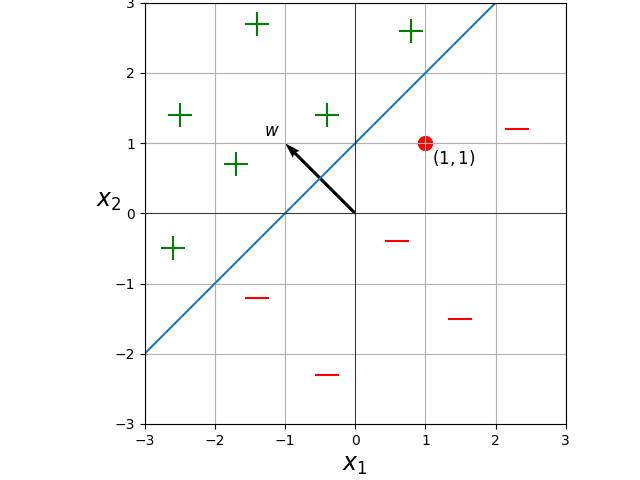
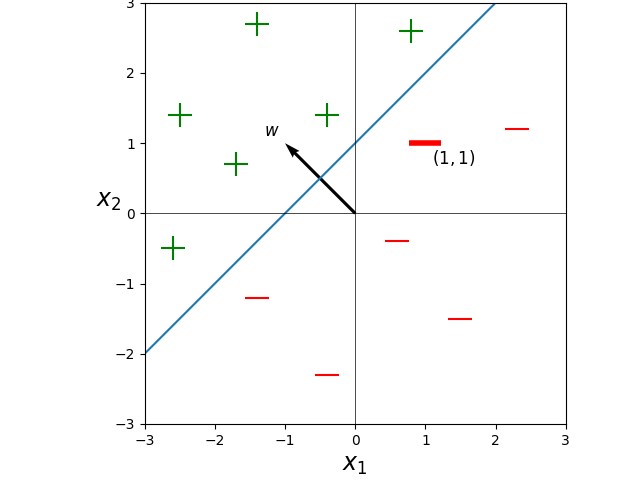
irudiak aldaketa

diff --git a/Grafikoak/1_espazio_zatitzaile_adibidea.py b/Grafikoak/1_espazio_zatitzaile_adibidea.py
@@ -14,7 +14,7 @@ plt.xlabel(r'$x_1$', fontsize = 17)
 plt.ylabel(r'$x_2$',rotation = 0, fontsize = 17)
 plt.tight_layout(pad = 0.2)
 
-plt.grid(True)
+# plt.grid(True)
 plt.xlim([-3,3])
 plt.ylim([-3,3])
 plt.axhline(0, color='black',linewidth=0.5)
@@ -24,7 +24,7 @@ plt.gca().set_aspect('equal', adjustable='box')
 # Puntuak gehitu
 plt.scatter([2.3, -0.4, -1.4,0.6,1.5], [1.2, -2.3,-1.2,-0.4,-1.5], color='red', marker='_', s = 300)
 plt.scatter([-1.7, -0.4, 0.8,-2.5,-2.6, -1.4], [0.7, 1.4, 2.6,1.4,-0.5, 2.7], color='green', marker='+', s = 300)
-plt.scatter([1],[1], color='red', marker='o', s = 100)
+plt.scatter([1],[1], color='red', marker='_', s = 500, linewidth = 4)
 plt.text(1.1,0.7, r'$(1,1)$', color='black', fontsize=12)
 
 # Bektorea gehitu
